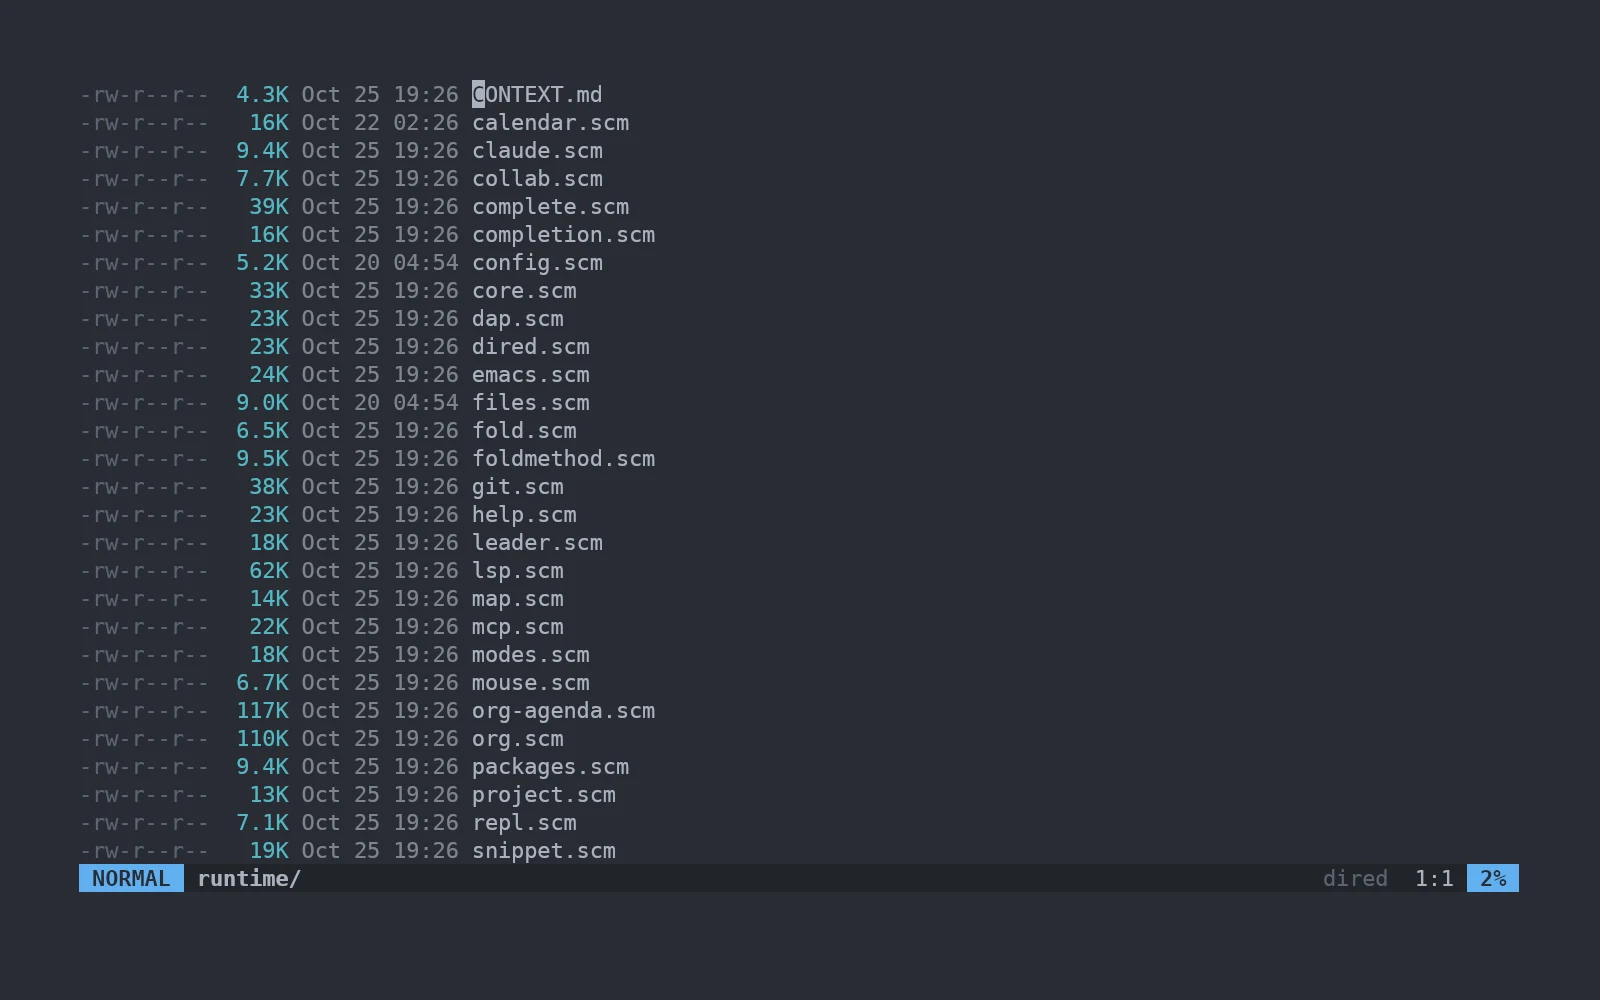
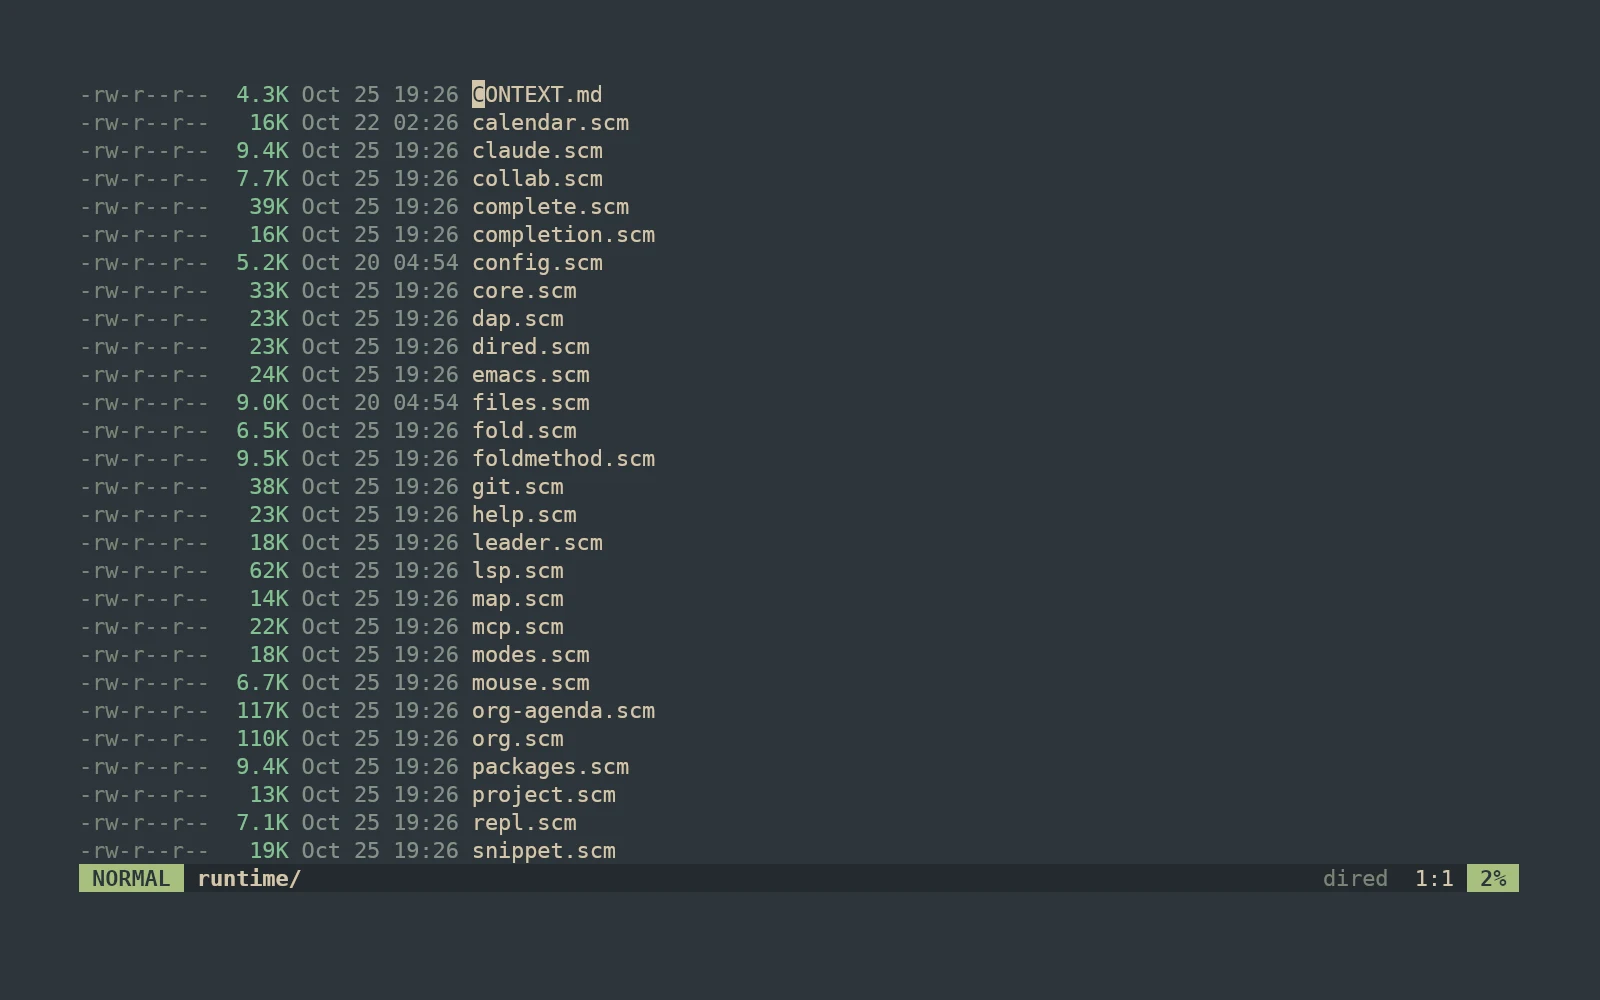
Website: the tour's screenshots in everforest-dark, as the site's colors

diff --git a/site/CONTEXT.md b/site/CONTEXT.md
@@ -4,4 +4,4 @@ The marketing website, https://apisandipas.github.io/imp/: static HTML, CSS and 
 
 - The docs section, `site/docs/`, is built, not written: `tools/site-docs.py` makes it from `docs/guide/*.md` and the reference pages in `docs/reference/` ([[0018-user-reference-pages-are-written-from-the-specs-and-checked]]), and the Pages workflow runs it before deploying. It's ignored by git; its styles are the Docs part of `style.css`. Its pages share the home page's navigation bar: `site-docs.py` copies `<header class="nav">` from `index.html`, so change the nav there. The docs describe a release, so they're written on `develop` and go live when a release merges into `main`.
 - Changes go on a `site/` branch from `main` and merge back into `main`, then `main` merges into `develop`, so the site never waits on a release and never carries unreleased code.
-- Screenshots in `img/` are taken with `imp --screenshot` under a temporary `XDG_CONFIG_HOME` and `XDG_STATE_HOME`, so no private files show.
+- Screenshots in `img/` are taken with `imp --screenshot` under a temporary `XDG_CONFIG_HOME` and `XDG_STATE_HOME`, so no private files show, and in `everforest-dark`, the theme the site's colors come from.
